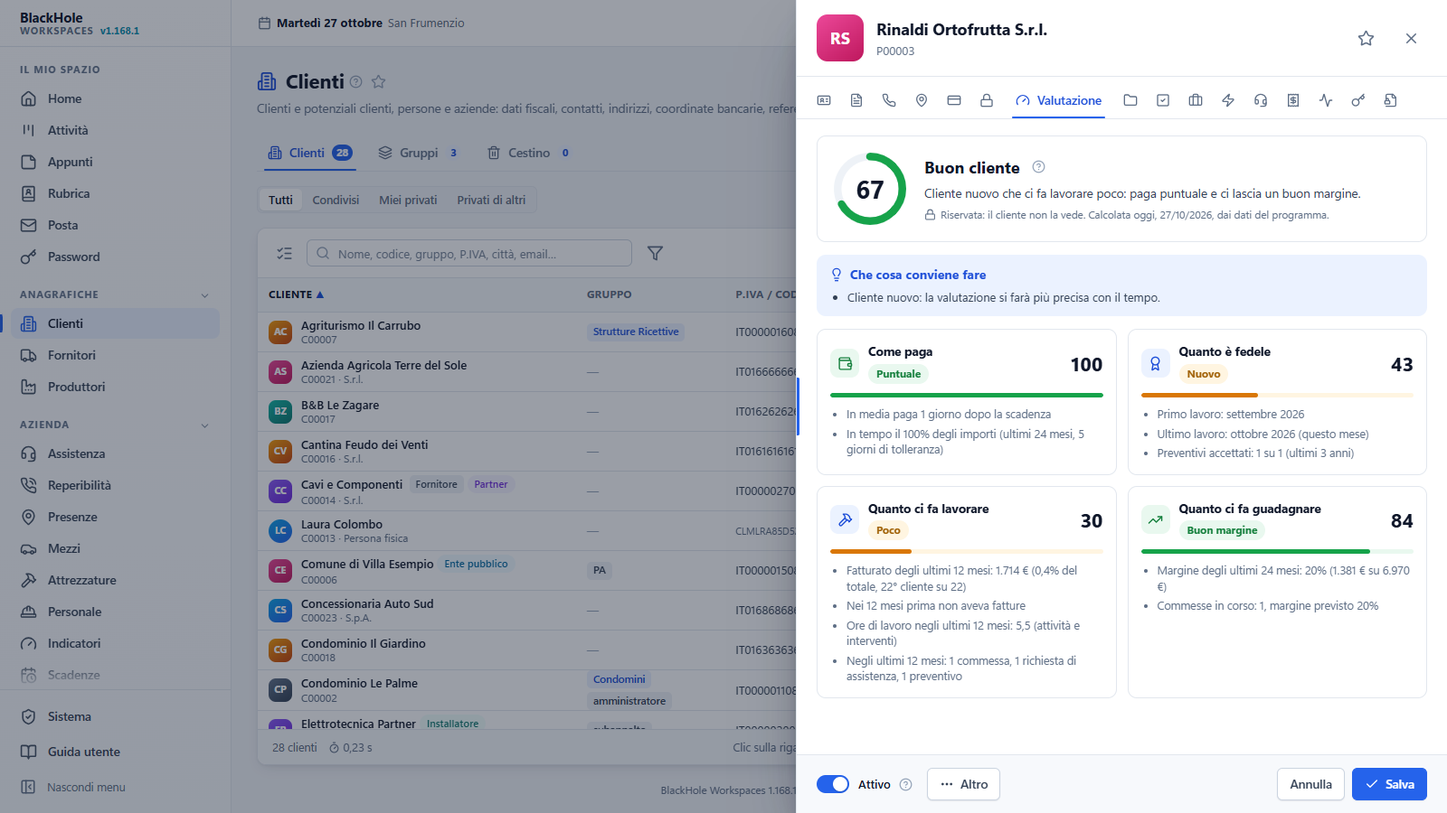
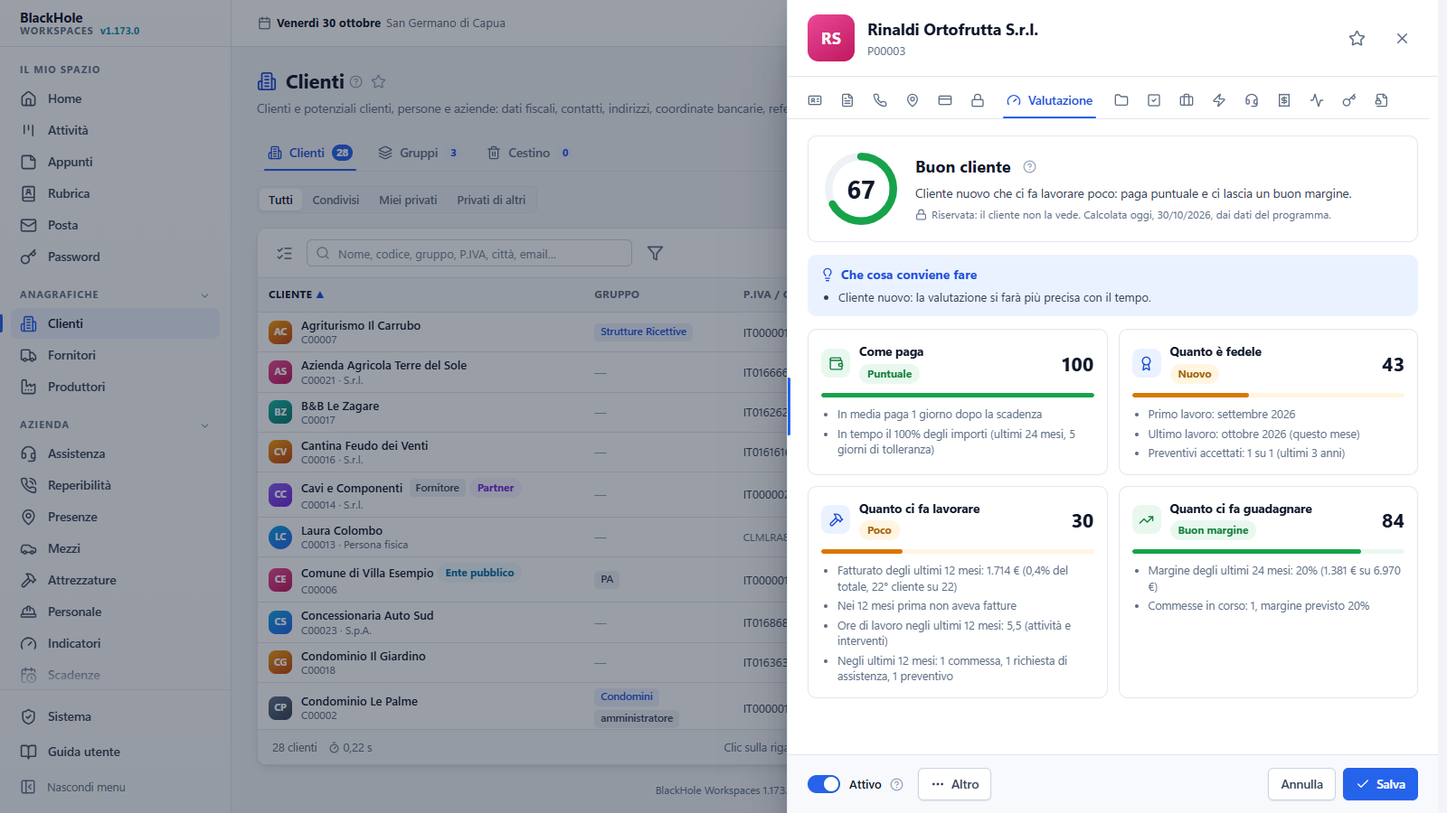
1.173.0 (con le 1.172.0-1.172.1): stili e allineamenti in ordine in tutte le pagine, tendine e calendario della piattaforma, elenchi modificabili dalla scheda, reparti e mansioni, Posta con messaggi in una scheda e immagini; guida e immagini

diff --git a/docs/guida/interfaccia.md b/docs/guida/interfaccia.md
@@ -122,6 +122,7 @@ Un campo che fa qualcosa ha la sua **icona a destra**, così si distingue da que
 - **Telefono**: scrivi il numero come viene; uscendo dal campo viene uniformato, per esempio `+39 333 123 4567`. Senza prefisso internazionale vale **+39**; per un numero estero inizia con `+` e scegli il paese dall'elenco. Sono riconosciuti cellulari, fissi, numeri verdi e numeri esteri.
 - **Città e CAP**: scrivi le prime lettere della città o le prime cifre del CAP e scegli dall'elenco: comprende i comuni italiani e le loro **località** e frazioni (per esempio *Marina di Ragusa*). CAP, provincia e paese si compilano da soli. Per le grandi città divise in zone postali, e per i comuni di cui l'elenco conosce più di un CAP, il CAP non viene scelto al posto tuo: fai clic sul campo **CAP** e prendilo dall'elenco. Se il CAP scritto non è tra quelli noti per la città compare un avviso, che non impedisce di salvare: i CAP cambiano e l'elenco può non essere aggiornato.
 - **Indirizzo completo**: con la [ricerca degli indirizzi](impostazioni.md#impostazioni-indirizzi) attiva, la lente 🔍 nel campo della via cerca l'indirizzo (anche da coordinate o da un link di Google Maps) e compila tutta la riga: vedi [Contatti, indirizzi e coordinate bancarie](clienti.md#clienti-contatti).
+- **Coordinate**: il pulsante dentro il campo apre Google Maps. Con le coordinate scritte mostra il segnaposto sul punto. Con il campo vuoto apre la mappa (sull'indirizzo, se è già scritto): copia le coordinate del punto (clic destro sul punto, poi clic sulle coordinate) e torna nel programma. Le coordinate si scrivono da sole nel campo e gli appunti si svuotano; se il browser non lascia leggere gli appunti (il server raggiunto senza https), il cursore è già nel campo e basta <kbd>Ctrl</kbd>+<kbd>V</kbd>. Senza la via, con la ricerca degli indirizzi attiva, si apre l'elenco degli indirizzi di quel punto: un clic completa la riga.
 - **Genere**: uscendo dal campo Nome di un cliente, di una scheda del personale o di un utente, il genere ancora da indicare viene proposto quando il nome è abbastanza sicuro: dalle altre schede con lo stesso nome (l'[archivio dei nomi](impostazioni.md#impostazioni-genere)) o da genderize.io, se attivo.
 - **Conferma della password**: ovunque si sceglie una password (configurazione iniziale, cambio e recupero nella pagina di accesso, **Profilo e sicurezza**, scheda dell'utente, password dei backup), mentre scrivi nel campo di conferma compare sotto **Le password coincidono**, in verde, oppure **Le password non coincidono**, in rosso. Finché la conferma è vuota non compare nulla. Il controllo al salvataggio resta: con due password diverse non si prosegue.
 - **Suggerimenti**: in molti campi, mentre scrivi, compaiono i valori già scritti nello stesso campo, dal più usato: frecce e <kbd>Invio</kbd> per scegliere, <kbd>Esc</kbd> per chiudere l'elenco. Vedi [Suggerimenti mentre scrivi](#interfaccia-suggerimenti). Sotto alcuni campi (per esempio **Come** nell'invio e nell'accettazione di un preventivo) ci sono le **scelte rapide**: un clic scrive la voce nel campo, e si può sempre scrivere altro (dalla 1.125.0).
@@ -134,6 +135,19 @@ Un campo che fa qualcosa ha la sua **icona a destra**, così si distingue da que
    - gli importi si mostrano sempre con i decimali (*1.250,00 €*), così un valore copiato dallo schermo e incollato in un campo vale lo stesso. I conti (righe, sconti, IVA, totali) si fanno con valori esatti e l'arrotondamento commerciale al centesimo, come nella fattura elettronica.
 - **Password**: dove si scrive una password, l'occhio 👁 nel campo la mostra e la nasconde. Dove se ne sceglie una nuova (la propria, quella di un utente, quella dei backup, la configurazione iniziale, le password delle schede tecniche) accanto c'è **Genera** : apre il [generatore](password.md#password-generatore) e **Usa questa password** la mette nel campo, in chiaro per poterla annotare, e anche nella conferma. Se è inserito il **Blocco maiuscole**, il campo ha il bordo arancione e sotto compare *Blocco maiuscole attivo*: le password distinguono maiuscole e minuscole. L'avviso compare appena scrivi o fai clic nel campo e sparisce quando lo togli o esci dal campo.
 - **Linguette strette**: quando le linguette di una scheda o di una pagina non stanno nella larghezza, quelle non scelte mostrano solo l'icona (il nome compare fermando il mouse); se non ci stanno nemmeno così, ai lati compaiono le frecce **‹** e **›** per scorrerle (anche con la rotella del mouse), e quella aperta resta sempre in vista. Allargando il pannello o la finestra tornano i nomi. Con la tastiera, dalla linguetta scelta le frecce <kbd>←</kbd> <kbd>→</kbd>, <kbd>Inizio</kbd> e <kbd>Fine</kbd> passano alle altre. Sul telefono le altre linguette stanno nel menu **Altre**.
+
+## <a id="interfaccia-date-tendine"></a>Date, ore e tendine
+
+Ogni tipo di campo si comporta allo stesso modo in tutte le pagine, con l'aspetto della piattaforma e non quello del browser.
+
+- **Date**: un clic nel campo o sull'icona apre il **calendario**: il mese con il lunedì in testa, **oggi** cerchiato, la data scelta in blu, le **domeniche** e i **festivi** in rosso (i festivi con un pallino). Sotto il mese si legge il giorno per esteso e, se è festa, il suo nome. Le frecce **‹** e **›** cambiano mese; un clic sul titolo passa ai **mesi** e poi agli **anni**, per andare lontano in due clic. **Oggi** sceglie la data di oggi, **Cancella** svuota il campo. La data si può sempre scrivere a mano: il calendario la segue. I giorni fuori dal periodo ammesso sono spenti.
+- **Data e ora**: accanto al mese c'è l'elenco delle ore ogni mezz'ora; scelto il giorno, un clic sull'ora completa il campo. **Ore**: lo stesso elenco da solo, con **Adesso**.
+- **Con la tastiera**: <kbd>Alt</kbd>+<kbd>↓</kbd> o <kbd>F4</kbd> apre il calendario con il cursore sul giorno; le frecce si spostano di un giorno o di una settimana, <kbd>Pag↑</kbd> e <kbd>Pag↓</kbd> di un mese (<kbd>Maiusc</kbd> per un anno), <kbd>Inizio</kbd> e <kbd>Fine</kbd> vanno a lunedì e domenica, <kbd>Invio</kbd> sceglie, <kbd>Esc</kbd> chiude senza chiudere la scheda.
+- **Tendine**: si aprono con il menu della piattaforma, lo stesso di **Altro**, con la spunta sulla voce scelta; le tendine lunghe scorrono e si aprono già sulla voce scelta. Scrivendo le prime lettere di una voce ci si va sopra (la stessa lettera ripetuta passa alla voce dopo); con la tastiera si aprono con lo <kbd>Spazio</kbd>, <kbd>F4</kbd> o <kbd>Alt</kbd>+<kbd>↓</kbd>.
+- **Elenchi da tabella**: dove le voci sono un elenco che si gestisce (tipi, categorie, serie, conti, gruppi…), la scelta ha in fondo **Nuovo…** e **Gestisci l'elenco…** (<kbd>F2</kbd>): vedi [Tipi e categorie](#interfaccia-tipi).
+- **Numeri**: senza le freccette del browser; la rotella del mouse sopra un campo numerico fa scorrere la scheda e non cambia il numero. Un numero con la sua unità accanto (€, %, giorni, ore) si legge a destra, vicino all'unità.
+- **Voci proposte**: nei campi di testo con voci comuni (l'etichetta di un recapito, la categoria di un cespite, l'unità di misura) un clic mostra tutte le voci nell'elenco della piattaforma, con quella già scritta segnata; si può sempre scrivere altro.
+- Sul telefono e sul tablet, al tocco, restano il calendario e le scelte del sistema, più comodi con il dito.
 
 ## <a id="interfaccia-formato"></a>Maiuscole e minuscole automatiche
 
@@ -318,6 +332,8 @@ Gli elenchi di tipi e categorie (categorie dei clienti, dei fornitori e dei docu
 - in fondo **Aggiungi** e, dove ci sono, le azioni dell'elenco (per i tipi di impianto **Importa…** ed **Esporta tutti**).
 
 **Senza chiudere la scheda** (dalla 1.143.5): nelle schede la scelta del tipo o della categoria (impianti, richieste di assistenza, mezzi e attrezzature, pratiche, personale, commesse, clienti e fornitori, documenti, password) ha in fondo **Nuovo tipo…**, **Nuova categoria…** o, per il catalogo del personale, **Nuovo corso…**, **Nuovo documento…** o **Nuova visita…**. Apre la scheda della voce nuova sopra quella aperta e, salvata, la sceglie; **Gestisci l'elenco…**, o <kbd>F2</kbd> sulla scelta, apre l'elenco completo e, quando lo chiudi, la scelta si aggiorna (con una sola voce aggiunta, sceglie quella). Le voci le vede chi ha il permesso di gestire quell'elenco. I **filtri** degli elenchi mostrano gli stessi tipi con il loro pallino, ma senza **Nuovo…**: si aggiornano da soli quando il tipo cambia da una scheda aperta.
+
+Lo stesso vale per ogni scelta che viene da un elenco che si gestisce: aliquote IVA, termini di pagamento, magazzini, modelli di preventivo, **serie dei preventivi**, **tipi di attività** delle presenze, **livelli** dell'iter dei solleciti, **indicatori** e **misure** dei KPI, **gruppi** del monitoraggio, **conti correnti** (con **Nuovo conto corrente…**) e i conti del **piano dei conti** (con **Nuovo conto…**, che propone già la voce giusta: un conto di banca dal campo dei pagamenti, un fondo di ammortamento dal cespite). F2 sul conto apre il piano dei conti sopra la scheda, e ogni campo mostra solo la sua parte del piano.
 
 Le schede da compilare si aprono sempre nel pannello a destra; al centro restano solo le conferme, le domande di un campo (un nome, una cartella dove spostare) e le anteprime larghe.
 

diff --git a/docs/guida/impianti.md b/docs/guida/impianti.md
@@ -11,7 +11,7 @@
 
 Le linguette **In servizio** e **Dismessi** elencano gli impianti che vedi: in evidenza il **cliente** (l'impianto è suo), sotto il nome dell'impianto con il tipo (anche nel colore dell'icona), poi la sede, le commesse collegate e la data di installazione. La ricerca trova nome, cliente, sede, tipo e commesse; il filtro mostra un tipo, o quelli senza tipo. In alto **Nuovo impianto** e, in **Altro**, **Stampa**, **Tipi di impianto** (l'elenco dei [tipi](#impianti-tipi)) e **Modelli delle schede tecniche** (i [modelli](#impianti-modelli)). Un clic su un impianto apre la sua **pagina**:
 
-- in testa cliente (un clic apre la sua scheda), sede, tipo, stato, data di installazione e le **commesse** collegate, con i pulsanti **Condividi** (un link alla [documentazione dell'impianto](condivisioni.md#condivisioni-impianto), anche come etichetta con il QR code), **Stampa** (scheda, Leggimi e interventi), **Elimina**, **⋯** (nuovo intervento, cartella in Documenti, scheda del cliente, **Duplica**) e **Modifica**;
+- in testa cliente (un clic apre la sua scheda), sede, tipo, stato, data di installazione e le **commesse** collegate, con i pulsanti **Condividi** (un link alla [documentazione dell'impianto](condivisioni.md#condivisioni-impianto), anche come etichetta con il QR code), **Stampa** (scheda, Leggimi e interventi), **Elimina**, **⋯** (nuovo intervento, **Apri in Documenti**, scheda del cliente, **Duplica**) e **Modifica**;
 - **Leggimi**: quello che serve sapere prima di intervenire;
 - **Scheda tecnica**: i [dati tecnici](#impianti-scheda-tecnica) dell'impianto, parte per parte (EVAC, TVCC…), con i dispositivi;
 - **Interventi**: le [attività collegate](#impianti-interventi), con il numero di quelle ancora aperte;
@@ -63,7 +63,7 @@ La compila chi può **Modificare gli impianti**; chi può vederli la consulta. I
 
 ## <a id="impianti-cartella"></a>Da una cartella del PC
 
-**Da una cartella** , nella pagina Impianti (o nella linguetta **Impianti** della scheda di un cliente, per quel cliente), porta nella piattaforma il lavoro tenuto finora nelle cartelle del PC: scegli o trascini una cartella, con tutte le sottocartelle, e ne escono il cliente, i suoi impianti con il Leggimi e la scheda tecnica, le password e i file. Compare a chi può **Creare impianti**.
+**Importa da una cartella** , nella pagina Impianti (o nella linguetta **Impianti** della scheda di un cliente, per quel cliente), porta nella piattaforma il lavoro tenuto finora nelle cartelle del PC: scegli o trascini una cartella, con tutte le sottocartelle, e ne escono il cliente, i suoi impianti con il Leggimi e la scheda tecnica, le password e i file. Compare a chi può **Creare impianti**.
 
 1. **La cartella**: dai nomi delle cartelle si capisce che cosa c'è.
    - *Rossi Mario\\Antintrusione*: **un impianto**. Il tipo viene dal nome (Antintrusione, TVCC o Videosorveglianza, Allarme, Rete o Router, KNX o Home Assistant, Citofonia…); una cartella con dentro *configurazioni*, *backup* o un *leggimi* (anche *INFO.txt*) è un impianto anche se il nome non dice il tipo. I nomi scritti tutti in maiuscolo diventano normali (*ANTINTRUSIONE* → *Antintrusione*), le sigle restano (*KNX*, *TVCC*).
@@ -90,7 +90,7 @@ La compila chi può **Modificare gli impianti**; chi può vederli la consulta. I
 
 ## <a id="impianti-schemi"></a>Schemi dei file
 
-Ognuno scrive i file di testo delle cartelle a modo suo: tu con le sezioni *\*\*\* NVR Hikvision \*\*\** e *auth: utente / password*, un collega magari con altri segni e altre parole. Uno **schema** lo descrive, e serve due volte: le sue **istruzioni** le legge l'assistente quando analizza una cartella, per capire titoli, chiavi e valori; le sue **parole** guidano la lettura delle password nel browser (all'assistente le password non arrivano mai). Si aprono da **Impianti → Da una cartella → Schemi dei file**; li cambia chi può gestire i [tipi d'impianto](#impianti-tipi), gli altri li vedono.
+Ognuno scrive i file di testo delle cartelle a modo suo: tu con le sezioni *\*\*\* NVR Hikvision \*\*\** e *auth: utente / password*, un collega magari con altri segni e altre parole. Uno **schema** lo descrive, e serve due volte: le sue **istruzioni** le legge l'assistente quando analizza una cartella, per capire titoli, chiavi e valori; le sue **parole** guidano la lettura delle password nel browser (all'assistente le password non arrivano mai). Si aprono da **Impianti → Importa da una cartella → Schemi dei file**; li cambia chi può gestire i [tipi d'impianto](#impianti-tipi), gli altri li vedono.
 
 - **Nome** e **Attivo**: valgono tutti gli schemi attivi insieme (le loro parole si sommano).
 - **Istruzioni per l'assistente**: come sono fatti i file, che cosa vuol dire ogni chiave, dove stanno utenti e password.

diff --git a/docs/guida/posta.md b/docs/guida/posta.md
@@ -12,7 +12,7 @@
 
 ## <a id="posta-caselle"></a>Caselle e cartelle
 
-- Ogni casella è una riga con l'avatar, il nome e il numero dei messaggi non letti. Sotto ci sono le sue cartelle, annidate come sul server.
+- Ogni casella è una riga con l'avatar, il nome e il numero dei messaggi non letti. Sotto ci sono le sue cartelle, annidate come sul server. Una cartella che il server usa solo per raccoglierne altre e non apre (su Gmail *[Gmail]*) non compare: le cartelle che contiene sì.
 - La freccia accanto apre o chiude la casella o la cartella. Il programma ricorda che cosa hai aperto, in questo browser.
 - Un clic su una cartella mostra i suoi messaggi, anche se è di un'altra casella.
 - Il **⋯** della casella, o il tasto destro sulla casella, offre **Nuova cartella…** e **Impostazioni della casella…**, che apre la sua scheda (vedi [La scheda della casella](#posta-casella)). Chi può solo scrivere vede la sua firma al posto delle impostazioni; chi può solo leggere non ha il ⋯.
@@ -56,6 +56,7 @@ Trascina un messaggio, o quelli scelti, su una cartella della stessa casella: la
 ## <a id="posta-lettura"></a>Leggere un messaggio
 
 - Un clic sul messaggio lo apre (da tastiera <kbd>Invio</kbd>). La prima apertura lo segna come letto.
+- Per leggerlo più grande: **doppio clic** sul messaggio, oppure tasto destro e **Apri in una scheda**. La scheda si apre sopra la Posta; trascinandone il bordo sinistro la allarghi, la linguetta con le frecce la porta a tutto schermo, e la larghezza resta per le volte dopo.
 - **‹** e **›** in alto passano al messaggio precedente o successivo dell'elenco; da tastiera le frecce <kbd>↑</kbd> e <kbd>↓</kbd>.
 - **Rispondi** è il solo pulsante blu. In **Altro** ci sono rispondi a tutti, inoltra, segna come letto o non letto, metti in evidenza, **È posta indesiderata**, **Blocca il mittente…**, **Annulla l'iscrizione…** (nelle newsletter), sposta in un'altra cartella, sposta nel cestino e scarica il messaggio (.eml). Nella Posta indesiderata il pulsante blu è **Non è posta indesiderata** (vedi [Posta indesiderata, mittenti e iscrizioni](#posta-indesiderata)).
 - La **stella** ★ accanto all'oggetto mette il messaggio tra i tuoi [preferiti](area-di-lavoro.md#preferiti): dal menu o dalla Home lo riapri in una scheda sopra la pagina in cui sei. Se nel frattempo il messaggio è stato eliminato, la scheda lo dice e propone **Togli dai preferiti**.
@@ -63,7 +64,7 @@ Trascina un messaggio, o quelli scelti, su una cartella della stessa casella: la
 - Le **ricevute PEC** di un messaggio inviato stanno in una lista sola, una per riga (vedi [PEC e ricevute](#posta-pec)).
 - Negli **allegati** il nome apre l'anteprima; accanto, il file si scarica o si salva in Documenti (vedi [Allegati e Documenti](#posta-allegati)).
 - Lo **storico**, in fondo, dice chi ha letto, risposto, inoltrato, assegnato, spostato o eliminato il messaggio, e quando.
-- Le **immagini** che arrivano da internet restano bloccate, perché farle arrivare dice al mittente che hai aperto il messaggio: **Mostra le immagini** le fa vedere per quel messaggio.
+- Le **immagini** che arrivano da internet restano bloccate, perché farle arrivare dice al mittente che hai aperto il messaggio: **Mostra le immagini** le fa vedere per quel messaggio. Le immagini dentro il messaggio (non da internet) si vedono sempre.
 - Un messaggio con la scritta *Solo nell'archivio* non è più sul server della posta: lo trovi solo in BlackHole.
 
 ## <a id="posta-scrivere"></a>Scrivere
@@ -94,6 +95,7 @@ Valgono quando non stai scrivendo in un campo (vedi anche le [scorciatoie genera
 | <kbd>N</kbd> | Un messaggio nuovo, come **Scrivi**. |
 | <kbd>↑</kbd> <kbd>↓</kbd> | Il messaggio precedente o successivo dell'elenco, sia nell'elenco sia nella lettura. |
 | <kbd>Invio</kbd> | Apre il messaggio scelto nell'elenco. |
+| Doppio clic | Apre il messaggio in una scheda, più grande (come **Apri in una scheda** del tasto destro). |
 | <kbd>Spazio</kbd> | Con **Scegli più messaggi** attivo, sceglie il messaggio o lo toglie dalla scelta. |
 | <kbd>Canc</kbd> | Mette nel cestino il messaggio scelto, o quelli scelti; nel Cestino li elimina definitivamente, dopo la conferma. |
 | <kbd>F9</kbd> | Controlla la posta adesso, come l'icona ↻ sopra l'elenco. |

diff --git a/docs/guida/privacy.md b/docs/guida/privacy.md
@@ -2,7 +2,7 @@
 
 # <a id="privacy"></a>Privacy
 
-**Sistema → Privacy** (solo amministratori; si apre anche da Impostazioni → Server) raccoglie ciò che chiede il Regolamento UE 2016/679 (GDPR) a un'azienda che tiene i dati di clienti, fornitori e dipendenti: le **informative**, il **registro dei trattamenti**, le **richieste degli interessati**, le **violazioni dei dati** e le **nomine**. La pagina ha sei linguette:
+**Sistema → Privacy** (solo amministratori) raccoglie ciò che chiede il Regolamento UE 2016/679 (GDPR) a un'azienda che tiene i dati di clienti, fornitori e dipendenti: le **informative**, il **registro dei trattamenti**, le **richieste degli interessati**, le **violazioni dei dati** e le **nomine**. La pagina ha sei linguette:
 
 - **Stato**: quante schede di clienti e fornitori hanno l'informativa, quanti hanno dato il consenso alle comunicazioni commerciali, quanti dipendenti hanno ricevuto la loro, le richieste aperte e quelle in ritardo, le violazioni aperte e da notificare, i responsabili esterni senza accordo firmato (un clic sui riquadri apre la linguetta). In rosso in cima la violazione da notificare al Garante con il termine. Sotto, le schede ancora senza informativa (le più recenti) e quelle da rivedere per la [conservazione](#privacy-conservazione): un clic apre la scheda.
 - **Informative**: i testi per clienti e fornitori e per dipendenti e collaboratori, con il referente per la privacy e l'eventuale responsabile della protezione dei dati (DPO).
@@ -28,13 +28,13 @@ Nella scheda di un cliente, potenziale cliente o fornitore, la linguetta **Priva
 
 - **Invia per email** (quando la [posta](impostazioni.md#impostazioni-posta) è configurata): l'indirizzo è il primo della scheda e si può cambiare; parte un'email nello stile della piattaforma con tutto il testo, e l'informativa risulta fornita oggi «per email».
 - **Stampa da firmare**: il testo con, in fondo, il riquadro del consenso alle comunicazioni commerciali e lo spazio per luogo, data e firma. Firmata, si segna con **Segna come fornita → Oggi, firmata**.
-- **Segna come fornita**: oggi (firmata, consegnata a mano, per email, sul sito o in altro modo) oppure **In un altro giorno…**, per esempio quando era già stata fornita con il vecchio gestionale. **Togli** la riporta a non fornita.
+- **Segna come fornita**: oggi (firmata, consegnata a mano, per email, sul sito o in altro modo) oppure **In un altro giorno…**, per esempio quando era già stata fornita con il vecchio gestionale. **Togli la consegna** la riporta a non fornita.
 
 **Comunicazioni commerciali** registra il consenso a ricevere offerte e informazioni (art. 6.1.a): **Non chiesto**, **Acconsente** o **Non acconsente**, con la data della scelta. Il consenso è facoltativo e si può revocare: senza, al cliente si scrive solo per preventivi, contratti e assistenza. Segnare l'informativa e il consenso richiede il permesso di modificare la scheda; chi la vede soltanto legge lo stato. Ogni scelta finisce nel [registro attività](registro.md).
 
 ## <a id="privacy-dipendenti"></a>Informativa ai dipendenti
 
-In fondo ai **Dati** della [scheda del personale](personale.md#personale-scheda), il riquadro **Privacy** mostra se l'informativa per dipendenti e collaboratori è stata consegnata: **Stampa** la prepara da firmare, **Segna consegnata oggi** registra la consegna (**Togli** la annulla). Lo vede chi vede il personale e lo segna chi lo gestisce. Nella linguetta Stato della pagina Privacy si contano i dipendenti in forza.
+In fondo ai **Dati** della [scheda del personale](personale.md#personale-scheda), il riquadro **Privacy** mostra se l'informativa per dipendenti e collaboratori è stata consegnata: **Stampa** la prepara da firmare, **Segna consegnata oggi** registra la consegna (**Togli la consegna** la annulla). Lo vede chi vede il personale e lo segna chi lo gestisce. Nella linguetta Stato della pagina Privacy si contano i dipendenti in forza.
 
 ## <a id="privacy-registro"></a>Registro dei trattamenti
 

diff --git a/CHANGELOG.md b/CHANGELOG.md
@@ -4,6 +4,65 @@ Il setup di ogni versione è nella pagina [Releases](https://github.com/brn78/Bl
 Per aggiornare basta **Scarica e installa** in *Sistema → Impostazioni → Aggiornamento del programma* (dalla 1.136.0),
 oppure caricare il setup nello stesso riquadro o eseguirlo sul server: dati, account e impostazioni restano.
 
+## 1.173.0 · 30 ottobre 2026
+
+Le versioni dalla 1.172.0 alla 1.173.0 escono insieme, in un solo setup.
+
+**Novità**
+
+- **Stili e allineamenti in ordine dappertutto**: tutte le pagine, le linguette, le schede e i menu sono stati rivisti
+  uno per uno. Campi, pulsanti e caselle della stessa riga sono alti uguali e in asse; numeri e importi stanno sempre a
+  destra, con la loro intestazione; i titoli delle sezioni hanno tutti la loro icona; gli elenchi e le sezioni vuote
+  dicono che cosa manca; in ogni vista c'è un solo pulsante blu; lo stesso stato ha lo stesso colore in ogni pagina.
+- **Schede e barre di scorrimento**: barre sottili, con l'aspetto della piattaforma, che non spostano il contenuto quando
+  compaiono; la testata e i pulsanti in fondo alle schede restano fermi mentre il resto scorre.
+- **Menu scritti allo stesso modo**: «Esporta», «Importa», «Impostazioni», «Apri …» in tutte le pagine; le azioni che
+  cancellano stanno in fondo, in rosso; «Altro» non ripete i pulsanti già a vista e si chiude quando si apre una
+  scheda. La guida usa i nomi nuovi.
+- **Piccoli dettagli**: le percentuali si scrivono ovunque «22 %»; le date vuote sono in grigio; i campi spenti si
+  riconoscono; il piè degli elenchi dice «1 contatto su 8» al singolare.
+
+**Correzioni**
+
+- **Dati dimostrativi**: la cartella dell'Archivio di rete e qualche documento di vendita contenevano ancora dei
+  riferimenti reali; ora sono inventati come il resto.
+
+## 1.172.1 · 29 ottobre 2026
+
+**Novità**
+
+- **Messaggio in una scheda**: nella Posta il doppio clic su un messaggio, o «Apri in una scheda» del tasto destro, lo
+  apre in una scheda che si può allargare fino a tutto lo schermo.
+
+**Correzioni**
+
+- **Messaggi bianchi**: alcuni messaggi scritti con Outlook si aprivano vuoti; ora si leggono, e se dal testo formattato
+  non resta niente si vede il testo semplice.
+- **Immagini nei messaggi**: le immagini da internet non comparivano neanche dopo «Mostra le immagini».
+- **Cartella «[Gmail]»**: la cartella che contiene le altre, che il server elenca ma non apre, dava un avviso a ogni
+  sincronizzazione; ora non si mostra, le sue cartelle sì.
+
+## 1.172.0 · 28 ottobre 2026
+
+**Novità**
+
+- **Tendine e calendario della piattaforma**: ogni elenco a scelta apre il menu della piattaforma, sulla voce scelta,
+  e si salta alle voci scrivendo le prime lettere; date e ore aprono il calendario della piattaforma, con il lunedì in
+  testa, oggi, i festivi, i mesi e gli anni, e per le ore l'elenco delle mezz'ore.
+- **Elenchi modificabili senza uscire dalla scheda**: serie dei preventivi, tipi di attività delle presenze, livelli
+  dei solleciti, indicatori e misure, piano dei conti, conti correnti e gruppi del monitoraggio hanno in fondo
+  «Nuovo…» e «Gestisci l'elenco…» (anche con F2).
+- **Reparti e mansioni**: diventano elenchi gestiti, in «Altro» del Personale, riempiti con i nomi già scritti;
+  rinominarli aggiorna personale, utenti, listino e indicatori.
+- **Coordinate**: il pulsante della mappa sta nel campo; se il campo è vuoto apre la mappa e, al ritorno, prende le
+  coordinate copiate.
+- **Numeri**: senza frecce e senza la rotella del mouse; i campi con l'unità accanto sono allineati a destra.
+
+**Correzioni**
+
+- **Menu**: un menu aperto e chiuso nello stesso istante faceva chiudere il menu seguente al primo clic, anche su una
+  voce.
+
 ## 1.171.0 · 28 ottobre 2026
 
 Le versioni dalla 1.168.9 alla 1.171.0 escono insieme, in un solo setup.

diff --git a/docs/guida/registro.md b/docs/guida/registro.md
@@ -2,7 +2,7 @@
 
 # <a id="registro"></a>Registro attività
 
-**Sistema → Registro attività** elenca accessi e operazioni (chi, quando, da quale indirizzo, con quale esito): creazione e modifica di utenti e clienti, caricamenti, revisioni, spostamenti, eliminazioni e cartelle riservate dei [documenti](documenti.md), cambi di impostazioni, backup, ripristini, aggiornamenti e nuove versioni disponibili. Si filtra per periodo e categoria, si cerca nel testo, si esporta in CSV (il pulsante **Esporta CSV** compare a chi ha il permesso **Esportare il registro attività**) e si [stampa](interfaccia.md#stampa). Le voci più vecchie del periodo di conservazione (Impostazioni) vengono eliminate da sole. Dei contatti privati il registro riporta solo il codice; di un'[importazione di clienti](clienti.md#clienti-importa) solo il nome del file e quanti clienti sono stati creati e saltati. Delle [password](password.md#password-storico) riporta creazioni, modifiche, cestino, importazioni, esportazioni e ogni volta che un segreto viene mostrato o copiato, con il nome della voce e mai il valore (categoria **Password**). Delle [commesse](progetti.md) (categoria **Commesse**) riporta creazione, modifica ed eliminazione di commesse e modelli, con quante attività sono state eliminate o lasciate senza commessa, le cartelle create in Documenti e le commesse nate da un modello (e i modelli nati da una commessa); dei [progetti](trattative.md) le operazioni nella categoria **Progetti**; delle [attività](attivita.md) (categoria **Attività**) le eliminazioni e i cambi della condivisione, con numero e titolo: il resto del lavoro sulle attività sta nel loro storico. Degli [appunti](appunti.md#appunti-riservatezza) e dei testi della chat non riporta nulla.
+**Sistema → Registro attività** elenca accessi e operazioni (chi, quando, da quale indirizzo, con quale esito): creazione e modifica di utenti e clienti, caricamenti, revisioni, spostamenti, eliminazioni e cartelle riservate dei [documenti](documenti.md), cambi di impostazioni, backup, ripristini, aggiornamenti e nuove versioni disponibili. Si filtra per periodo e categoria, si cerca nel testo, si esporta in CSV (il pulsante **Esporta** compare a chi ha il permesso **Esportare il registro attività**) e si [stampa](interfaccia.md#stampa). Le voci più vecchie del periodo di conservazione (Impostazioni) vengono eliminate da sole. Dei contatti privati il registro riporta solo il codice; di un'[importazione di clienti](clienti.md#clienti-importa) solo il nome del file e quanti clienti sono stati creati e saltati. Delle [password](password.md#password-storico) riporta creazioni, modifiche, cestino, importazioni, esportazioni e ogni volta che un segreto viene mostrato o copiato, con il nome della voce e mai il valore (categoria **Password**). Delle [commesse](progetti.md) (categoria **Commesse**) riporta creazione, modifica ed eliminazione di commesse e modelli, con quante attività sono state eliminate o lasciate senza commessa, le cartelle create in Documenti e le commesse nate da un modello (e i modelli nati da una commessa); dei [progetti](trattative.md) le operazioni nella categoria **Progetti**; delle [attività](attivita.md) (categoria **Attività**) le eliminazioni e i cambi della condivisione, con numero e titolo: il resto del lavoro sulle attività sta nel loro storico. Degli [appunti](appunti.md#appunti-riservatezza) e dei testi della chat non riporta nulla.
 
 ---
 

diff --git a/docs/guida/password.md b/docs/guida/password.md
@@ -4,7 +4,7 @@
 
 **Il mio spazio → Password** è il gestore di password della piattaforma: conserva le credenziali di accessi a siti e programmi, server e dispositivi, reti Wi-Fi, caselle di posta, database, chiavi API, licenze, con tutto ciò che serve per usarle (dove si usano, link, cliente, etichette, note). Password, note riservate, chiavi della verifica in due passaggi e campi riservati sono **cifrati sul server**. Una voce è **personale** finché non la condividi con colleghi, gruppi o tutti. Per usare il servizio serve il permesso **Usare la gestione password** (vedi [Permessi](#password-permessi)).
 
-La pagina ha quattro viste, ciascuna con il suo numero: **Tutte**, **Preferite**, **Controllo** (le password da sistemare) e **Cestino**. In alto ci sono **Esporta CSV** (per chi ne ha il permesso), **Importa**, **Tipi delle password** (per chi gestisce i tipi), **Generatore**, **Nuova cartella** e **Nuova password**. Le password si mettono in ordine nelle [cartelle](#password-cartelle).
+La pagina ha quattro viste, ciascuna con il suo numero: **Tutte**, **Preferite**, **Controllo** (le password da sistemare) e **Cestino**. In alto ci sono **Esporta** (per chi ne ha il permesso), **Importa**, **Tipi delle password** (per chi gestisce i tipi), **Generatore**, **Nuova cartella** e **Nuova password**. Le password si mettono in ordine nelle [cartelle](#password-cartelle).
 
 ## <a id="password-cartelle"></a>Le cartelle
 
@@ -144,7 +144,7 @@ Per fogli e documenti c'è poi il **controllo delle voci**: una riga per passwor
 
 Al massimo 5 MB e 5.000 righe per file. Un codice di verifica in due passaggi non riconosciuto non ferma la riga: la voce viene importata senza, e l'esito lo segnala.
 
-**Esporta CSV** ⬇ (con il permesso **Esportare le password**) scarica in un file CSV **in chiaro** le password che vedi, escluse quelle nel cestino: tutte, oppure solo quelle mostrate dai filtri. Chiede la **password del tuo account**. Le colonne sono quelle che leggono browser e gestori: `name`, `url`, `username`, `password`, `totp`, `notes`, più `email`, `location`, `customer`, `tags` e `type`. L'esportazione resta nel registro attività e nello storico di ogni voce esportata.
+**Esporta** ⬇ (con il permesso **Esportare le password**) scarica in un file CSV **in chiaro** le password che vedi, escluse quelle nel cestino: tutte, oppure solo quelle mostrate dai filtri. Chiede la **password del tuo account**. Le colonne sono quelle che leggono browser e gestori: `name`, `url`, `username`, `password`, `totp`, `notes`, più `email`, `location`, `customer`, `tags` e `type`. L'esportazione resta nel registro attività e nello storico di ogni voce esportata.
 
 > [!WARNING]
 > Un file CSV di password è leggibile da chiunque lo apra: dopo un'importazione o un'esportazione **eliminalo** (e svuota il cestino del computer). Non inviarlo per email e non lasciarlo in cartelle condivise.

diff --git a/docs/guida/README.md b/docs/guida/README.md
@@ -3,7 +3,7 @@
 [← Torna alla presentazione](../../README.md) · [Scarica il setup](https://github.com/brn78/BlackHole-Workspaces/releases/latest)
 
 > [!NOTE]
-> È la stessa guida che si apre nella piattaforma con <kbd>F1</kbd> (menu **Guida utente**), aggiornata alla versione **1.171.0**. Nella piattaforma le icone **(?)** accanto ai campi portano direttamente al paragrafo giusto.
+> È la stessa guida che si apre nella piattaforma con <kbd>F1</kbd> (menu **Guida utente**), aggiornata alla versione **1.173.0**. Nella piattaforma le icone **(?)** accanto ai campi portano direttamente al paragrafo giusto.
 
 BlackHole Workspaces è la piattaforma web per i servizi dell'azienda: un unico posto, protetto da accesso personale, in cui gestire attività, appunti, password, clienti, commesse, documenti, persone e, via via, gli altri servizi. Questa guida descrive ogni funzione così come la vedi a schermo e viene aggiornata a ogni nuova versione.
 
@@ -31,6 +31,7 @@ BlackHole Workspaces è la piattaforma web per i servizi dell'azienda: un unico 
    - [Icone di aiuto](interfaccia.md#interfaccia-aiuto)
    - [Notifiche e avvisi](interfaccia.md#interfaccia-notifiche)
    - [Campi che si controllano e si compilano da soli](interfaccia.md#interfaccia-campi)
+   - [Date, ore e tendine](interfaccia.md#interfaccia-date-tendine)
    - [Maiuscole e minuscole automatiche](interfaccia.md#interfaccia-formato)
    - [Suggerimenti mentre scrivi](interfaccia.md#interfaccia-suggerimenti)
    - [Avviso dei possibili doppioni](interfaccia.md#interfaccia-doppioni)
@@ -286,6 +287,7 @@ BlackHole Workspaces è la piattaforma web per i servizi dell'azienda: un unico 
    - [Orario e costo](personale.md#personale-orario)
    - [Corsi, documenti e visite](personale.md#personale-voci)
    - [Il catalogo](personale.md#personale-catalogo)
+   - [Reparti e mansioni](personale.md#personale-reparti)
    - [Accesso alla piattaforma](personale.md#personale-accesso)
    - [Anche cliente](personale.md#personale-cliente)
    - [Il tesserino di riconoscimento](personale.md#personale-tesserino)
@@ -410,7 +412,7 @@ BlackHole Workspaces è la piattaforma web per i servizi dell'azienda: un unico 
    - [I dispositivi](rete-locale.md#rete-locale-dispositivi)
    - [Fissi, di passaggio e nuovi](rete-locale.md#rete-locale-valutazione)
    - [Nel monitoraggio e doppioni](rete-locale.md#rete-locale-monitoraggio)
-   - [Reti e impostazioni](rete-locale.md#rete-locale-impostazioni)
+   - [Impostazioni](rete-locale.md#rete-locale-impostazioni)
    - [Sistema operativo, servizi, IPv6 e porte](rete-locale.md#rete-locale-servizi)
 41. [Strumenti di rete](strumenti-rete.md)
    - [Diagnostica](strumenti-rete.md#strumenti-rete-diagnostica)

diff --git a/docs/guida/documenti.md b/docs/guida/documenti.md
@@ -4,7 +4,7 @@
 
 **Archivio → Documenti** è l'archivio dei file dell'azienda: progetti, disegni, manuali, programmi e setup, certificazioni, offerte, foto. I file stanno in **cartelle**, conservano tutte le **revisioni** precedenti, si collegano a un **cliente** e si ritrovano con **categorie**, **etichette**, **produttore** e **modello**. Il [visualizzatore](#documenti-visualizzatore) apre nella pagina PDF, Word, Excel, immagini, disegni CAD e modelli 3D; l'[editor](#documenti-editor) crea documenti Word e file di testo senza uscire dalla piattaforma. La pagina compare a chi ha almeno il permesso **Visualizzare i documenti** (vedi [Permessi e cartelle riservate](#documenti-permessi)).
 
-Sopra l'elenco ci sono il **percorso** della cartella aperta (un clic su un nome risale, fino a **Documenti**), la scelta tra **Elenco** e **Griglia** con le anteprime di immagini, PDF e disegni, e i filtri. Ogni file ha un'icona con la sigla del suo tipo (PDF, DOCX, XLSX, DWG, EXE…) in un colore che lo distingue a colpo d'occhio.
+Sopra l'elenco ci sono il **percorso** della cartella aperta (un clic su un nome risale, fino a **Documenti**), la scelta tra **Elenco** e **Schede** con le anteprime di immagini, PDF e disegni, e i filtri. Ogni file ha un'icona con la sigla del suo tipo (PDF, DOCX, XLSX, DWG, EXE…) in un colore che lo distingue a colpo d'occhio.
 
 ## <a id="documenti-cartelle"></a>Cartelle, file e azioni
 
@@ -68,7 +68,7 @@ La ricerca (quella in alto e quella dei Documenti) trova anche le parole scritte
 - Contano solo le versioni correnti fuori dal cestino: una revisione nuova sostituisce il testo vecchio, un file nel cestino non si trova più (ripristinato, si ritrova).
 - Le regole sono quelle di sempre: i file delle cartelle riservate li trova solo chi le vede.
 - Le scansioni (PDF senza testo, foto) non hanno testo da leggere: prima [Rendi ricercabile](#documenti-ocr) con l'OCR.
-- Gli amministratori, con **Testo dei file** in alto nella pagina, vedono quanti file sono stati letti, quanti sono in coda, senza testo o non letti (protetti, rovinati o oltre 60 MB) e possono **Rifare l'indice** da capo. Il testo sta in un indice a parte, fuori dalle copie di sicurezza: se si perde si rifà da solo.
+- Gli amministratori, con **Leggi il testo dei file** in alto nella pagina, vedono quanti file sono stati letti, quanti sono in coda, senza testo o non letti (protetti, rovinati o oltre 60 MB) e possono **Rifare l'indice** da capo. Il testo sta in un indice a parte, fuori dalle copie di sicurezza: se si perde si rifà da solo.
 
 ## <a id="documenti-revisioni"></a>Revisioni
 

diff --git a/docs/guida/clienti.md b/docs/guida/clienti.md
@@ -2,7 +2,7 @@
 
 # <a id="clienti"></a>Clienti
 
-**Anagrafiche → Clienti** raccoglie persone fisiche e aziende: i clienti e i potenziali clienti. La pagina gemella **Anagrafiche → Fornitori** mostra le schede dei fornitori: è la stessa anagrafica, e un'azienda che è insieme cliente e fornitore ha una scheda sola (vedi [Ruoli: clienti, potenziali clienti e fornitori](#clienti-ruoli)). L'elenco si cerca per nome, codice, gruppo, partita IVA, codice fiscale, città, email o telefono e si filtra per ruolo, tipo, gruppo, [categoria](#clienti-categorie) e stato; sotto le linguette **Clienti** (o **Fornitori**), **Gruppi** e **Cestino**, i **filtri rapidi** scelgono la visibilità: **Tutti**, **Condivisi** e **Miei privati**. **Esporta CSV** e **Importa** scambiano le schede con Excel e con altri programmi: vedi [Esportare i clienti in un file CSV](#clienti-esporta) e [Importare i clienti da un file CSV o JSON](#clienti-importa).
+**Anagrafiche → Clienti** raccoglie persone fisiche e aziende: i clienti e i potenziali clienti. La pagina gemella **Anagrafiche → Fornitori** mostra le schede dei fornitori: è la stessa anagrafica, e un'azienda che è insieme cliente e fornitore ha una scheda sola (vedi [Ruoli: clienti, potenziali clienti e fornitori](#clienti-ruoli)). L'elenco si cerca per nome, codice, gruppo, partita IVA, codice fiscale, città, email o telefono e si filtra per ruolo, tipo, gruppo, [categoria](#clienti-categorie) e stato; sotto le linguette **Clienti** (o **Fornitori**), **Gruppi** e **Cestino**, i **filtri rapidi** scelgono la visibilità: **Tutti**, **Condivisi** e **Miei privati**. **Esporta** e **Importa** scambiano le schede con Excel e con altri programmi: vedi [Esportare i clienti in un file CSV](#clienti-esporta) e [Importare i clienti da un file CSV o JSON](#clienti-importa).
 
 ## <a id="clienti-ruoli"></a>Ruoli: clienti, potenziali clienti e fornitori
 

diff --git a/docs/guida/strumenti-rete.md b/docs/guida/strumenti-rete.md
@@ -20,7 +20,7 @@ Le schede di rete del server, una alla volta (si sceglie sotto le linguette, con
 
 ## <a id="strumenti-rete-prove"></a>Prove della connessione
 
-**Prova la connessione**, in alto, misura in circa 20 secondi la connessione del server: latenza, jitter e perdita verso il **gateway** (la rete locale) e verso **internet** (1.1.1.1), il tempo di risposta del **DNS** e, se scelto, la velocità di **download** e **upload** verso i server di prova di Cloudflare. Sotto i numeri, una nota dice per che cosa basta la connessione (navigazione, videochiamate, telefonia, telecamere da remoto, streaming); poi il grafico del download nel tempo e la storia delle prove. In **⋯ Altro → Impostazioni delle prove** si sceglie la **prova automatica**, che il server fa da solo ogni tante ore (si vede quando il provider rallenta), e se misurare download e upload, che muovono qualche decina di MB: con una connessione a consumo, toglili.
+**Prova la connessione**, in alto, misura in circa 20 secondi la connessione del server: latenza, jitter e perdita verso il **gateway** (la rete locale) e verso **internet** (1.1.1.1), il tempo di risposta del **DNS** e, se scelto, la velocità di **download** e **upload** verso i server di prova di Cloudflare. Sotto i numeri, una nota dice per che cosa basta la connessione (navigazione, videochiamate, telefonia, telecamere da remoto, streaming); poi il grafico del download nel tempo e la storia delle prove. In alto, con il pulsante **Impostazioni**, si sceglie la **prova automatica**, che il server fa da solo ogni tante ore (si vede quando il provider rallenta), e se misurare download e upload, che muovono qualche decina di MB: con una connessione a consumo, toglili.
 
 ---
 
